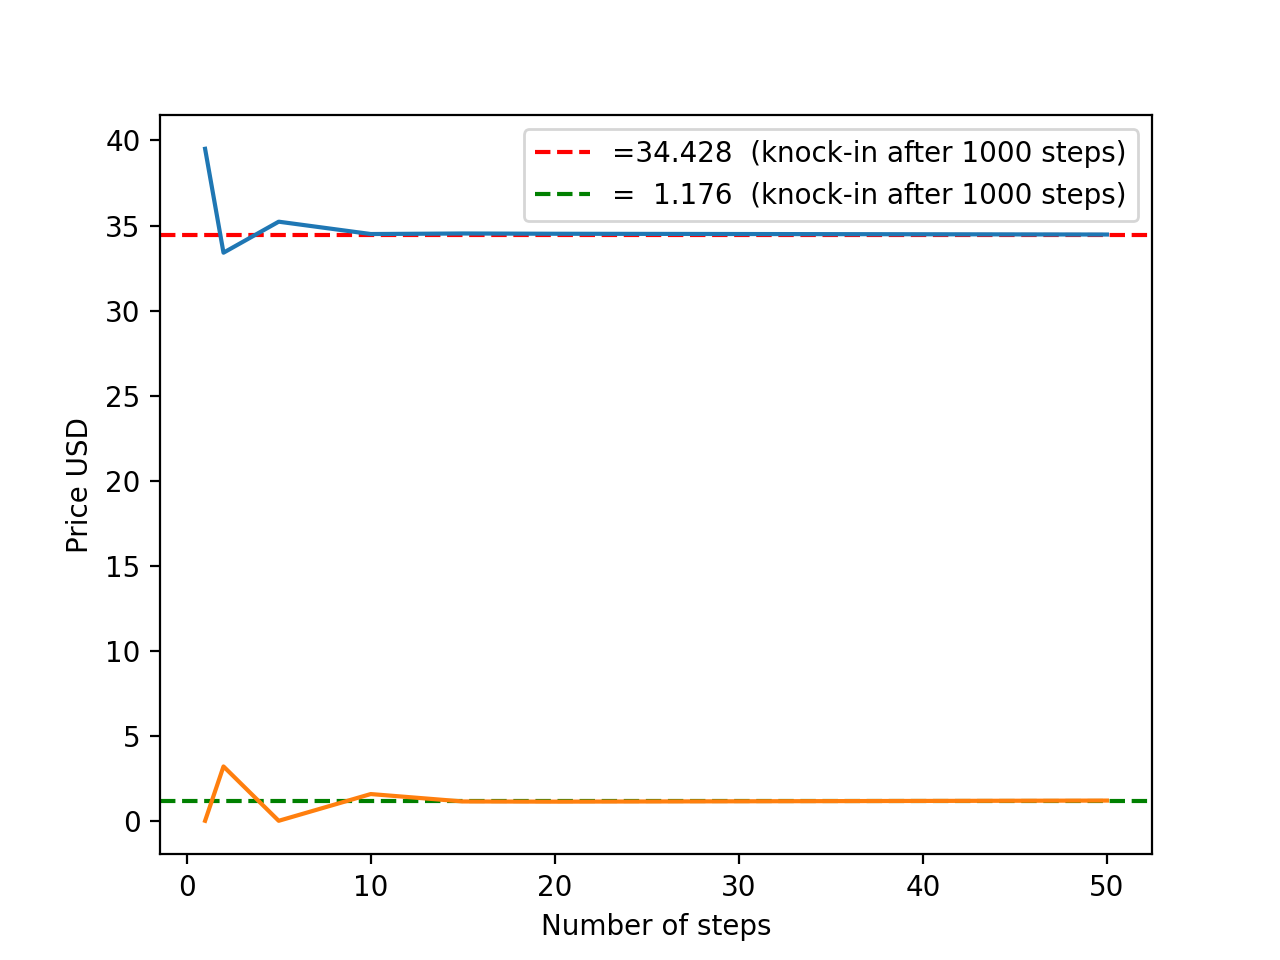
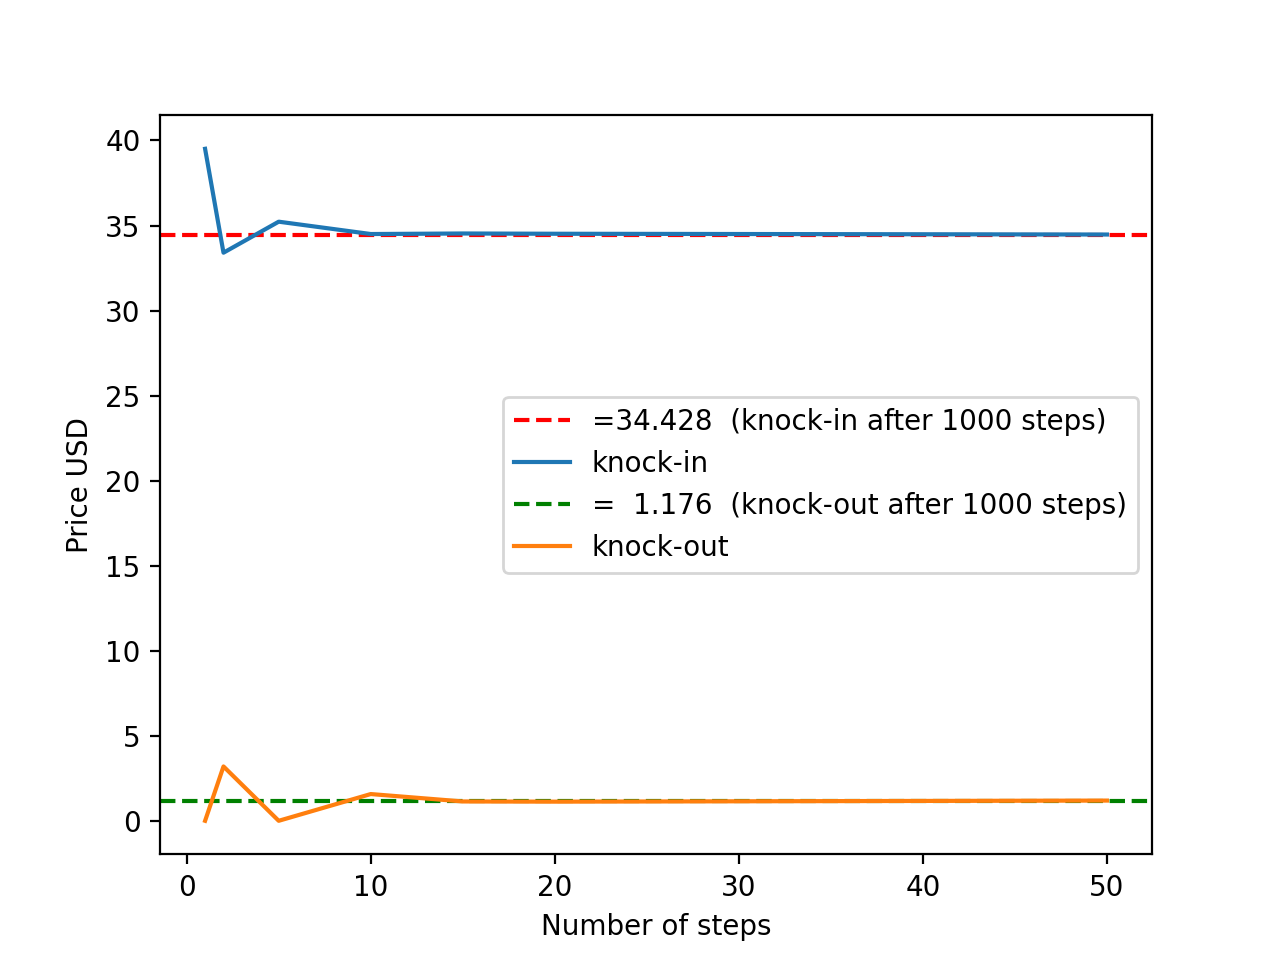
Mostly formatting changes

diff --git a/ex_3.py b/ex_3.py
@@ -14,13 +14,13 @@ from sklearn.linear_model import LinearRegression
 #3A 
 
 def probability_of_having_passed(t,S,sigma, S_t, H):
+    #Implemented as provided in the extended excercise
     if t == 0:
         return 0 
     return math.e**( (-2/(t*sigma**2))*math.log(S/H)*math.log(S_t/H) )
 
 def nCr(n,k):
     return math.factorial(n)/(math.factorial(k)*(math.factorial(n-k)))
-
 
 def european_knock_in_option(S,K,T,r,delta,sigma,h,call_or_put,H,knock_in):
     
@@ -56,6 +56,8 @@ def european_knock_in_option(S,K,T,r,delta,sigma,h,call_or_put,H,knock_in):
     #print(values)
     option_price = sum(values)*math.e**(-(r)*T)
     return option_price
+
+
 
 #3b
 
@@ -116,8 +118,12 @@ def meta_simulator(simulation_round_limit,simulation_step_size,simulation_amount
         x_axis.append(at_simulation)
     return x_axis,variance
 
+
+
 #3c
+
 def save_and_return(data,value,t,pos_y):
+    #save values in the binomial tree
     data[ (t,pos_y) ] = value
     return value
  
@@ -132,8 +138,8 @@ def american_bionomial_barrier_option(S,K,t,r,delta,sigma,h,call_or_put,pos_y,kn
     d = math.e**((r-delta)*h-sigma*h**(1/2)) 
     p = (math.e**((r-delta)*h)-d)/(u-d)
     if t == T-h and K < S and S < H: 
-           p_u = min(probability_of_having_passed(t+h,110,sigma,S*u,H),1) #print(f"Probability of having passed @upwards: {probability_of_having_passed(t+h,110,sigma,S*u,H)}")
-           p_d = min(probability_of_having_passed(t+h,110,sigma,S*d,H),1) #print(f"Probability of having passed @downwards {probability_of_having_passed(t+h,110,sigma,S*d,H)}") #This wrongly prints larger than 1
+           p_u = min(probability_of_having_passed(t+h,110,sigma,S*u,H),1) 
+           p_d = min(probability_of_having_passed(t+h,110,sigma,S*d,H),1) 
            if not knock_in:
                p_u = 1 - p_u
                p_d = 1 - p_d
@@ -157,6 +163,7 @@ def monte_carlo_simulation(S,T,delta,sigma,r,h,rounds):
     return sims
 
 def price_options(T,K,h,call_or_put):
+    #formats of inputs: 
     # stock sims = [[13,13.8,14,15,16],[12,13,15,14,10],...]
     # cash_flows = [[13,13.8,14,15,16],[12,13,15,14,10],...]
     rounds = 100000
@@ -176,7 +183,7 @@ def price_options(T,K,h,call_or_put):
         stock_sims[i] = stock_sims[i][1:]
     
 
-    #print(cash_flows[4])
+    
 
     #knock-in
     knock_in = []
@@ -192,7 +199,7 @@ def price_options(T,K,h,call_or_put):
                 if stock_sims[i][t]>=H:
                     flag = 1
                 knock_in[i][t]=flag
-    else:
+    else: #put
         for i in range(len(stock_sims)):
             knock_in.append([1]*T*extra)
             flag = 1
@@ -214,30 +221,25 @@ def price_options(T,K,h,call_or_put):
 
         for i in range(len(stock_sims)):
             #get the last values
-            #print(len(cash_flows[t+1]))
             
             #if the option is in the money
-
             if call_or_put*(stock_sims[i][t-1] - K) > 0:
 
                 if cash_flows[i][t]!=0:
 
                     regression_table_t.append( (cash_flows[i][t]*e**(-r*h) , stock_sims[i][t-1] ) )
         
-        #print(regression_table_t)
+        #create regression to estimate of continuation value
         if regression_table_t!=[]:
             c, c_x = get_regression(regression_table_t)
-        #print(c)
-        #print(c_x)
+        
         count_ex = 0
         count_co = 0
+
         for i in range(len(stock_sims)):
             continuation_value = c+c_x*stock_sims[i][t-1]
             exercise_value = max(call_or_put*(stock_sims[i][t-1] - K),0)
-            #print(f"{t}")
-            #print(continuation_value)
-            #print(exercise_value)
-            #print("---")
+           
             if exercise_value > continuation_value:
                 if exercise_value!=0 and knock_in[i][t]==1:
                     for x in range(len(stop_flag[i])):
@@ -249,17 +251,14 @@ def price_options(T,K,h,call_or_put):
             else:
                 count_co += 1
                 cash_flows[i][t-1]=0
-        #print(f"count ex: {count_ex}")
-        #print(f"count co: {count_co}")
+        
 
     #return average
     summ = 0
     for i in range(len(stock_sims)):
-        #print(cash_flows[i])
         for t in range(0,T*extra):
             if stop_flag[i][t] == 1:
                 summ += cash_flows[i][t]*e**((-r)*(t*h+h))
-    #print(stop_flag)
     
     #for E
     plot_hist_MC(stop_flag)
@@ -269,10 +268,8 @@ def price_options(T,K,h,call_or_put):
 def get_regression(regression_table):
     x = []
     y = []
-    #print(len(regression_table))
     for tup in regression_table: 
         x.append(tup[1])
-        #print(tup[0])
         y.append(tup[0])
     
     plt.figure(1)
@@ -280,21 +277,15 @@ def get_regression(regression_table):
     
     x = np.array(x).reshape((-1,1)) 
     y = np.array(y)
-    #print(x)
-    #print(y)
 
     model = LinearRegression().fit(x,y)
-    #print(model.coef_)
-    #print(model.intercept_)
-    #print(model.intercept_, model.coef_[0])
     plt.plot(x, model.intercept_+ x*model.coef_[0], "r")
-    #plt.show()
     return model.intercept_, model.coef_[0]
 
 def plot_hist_MC(table):
+    #Used to plot histograms
     x = []
     for lst in table:
-        #print(lst)
         for t in range(len(lst)):
             if (lst[t]==1):
                 x.append(t*h+h)
@@ -348,9 +339,9 @@ if __name__ == "__main__":
                 steps.append(int(T/h))
             print(knock_in_data)
             plt.axhline(european_knock_in_option(S,K,T,r,delta,sigma,0.005,call_or_put,H,1),color="red",ls="--",label=f"={round(european_knock_in_option(S,K,T,r,delta,sigma,0.005,call_or_put,H,1),3)}  (knock-in after 1000 steps)")
-            plt.plot(steps[:-5],knock_in_data[:-5])
-            plt.axhline(european_knock_in_option(S,K,T,r,delta,sigma,0.005,call_or_put,H,0),color="green",ls="--",label=f"=  {round(european_knock_in_option(S,K,T,r,delta,sigma,0.005,call_or_put,H,0),3)}  (knock-in after 1000 steps)")
-            plt.plot(steps[:-5],knock_out_data[:-5])
+            plt.plot(steps[:-5],knock_in_data[:-5],label="knock-in")
+            plt.axhline(european_knock_in_option(S,K,T,r,delta,sigma,0.005,call_or_put,H,0),color="green",ls="--",label=f"=  {round(european_knock_in_option(S,K,T,r,delta,sigma,0.005,call_or_put,H,0),3)}  (knock-out after 1000 steps)")
+            plt.plot(steps[:-5],knock_out_data[:-5],label="knock-out")
             plt.xlabel("Number of steps")
             plt.ylabel("Price USD")
             plt.legend()

diff --git a/ex_2.py b/ex_2.py
@@ -174,7 +174,6 @@ def starting_point(r, delta, sigma, K, call_or_put):
         H_p = K *(h_2/(h_2-1))
         return H_p
 
-
 def exercise_boundary(full_tree, call_or_put,h):
     stock_price = []
     time = []
@@ -213,6 +212,7 @@ def exercise_boundary(full_tree, call_or_put,h):
     return time, stock_price
 
 
+
 #2e
 
 def make_granular_function(excersice_boundaries,h,times):
@@ -248,7 +248,6 @@ def make_granular_function(excersice_boundaries,h,times):
 
     return granular_exercise_lst
 
-
 def ex_times(stock_sims, time, ex_bounderies):
     gran_ex_list = make_granular_function(ex_bounderies,h, time)
     ex_times = []
@@ -278,6 +277,7 @@ def ex_times(stock_sims, time, ex_bounderies):
     plt.figure(3)
     plt.hist(ex_times, bins = [0,0.5,1,1.5,2,2.5,3,3.5,4,4.5,5]) #[0,0.25,0.75,1.25,1.75,2.25,2.75,3.25,3.75,4.25,4.75,5.25]
     plt.show()
+
 
 
 #F

diff --git a/ex_1.py b/ex_1.py
@@ -127,7 +127,7 @@ if __name__ == "__main__":
     call_or_put = -1 # 1 = call, -1 = put
     h = 1
     
-    #––––Run toggles––––
+    #––––Run toggles–––– SET what tasks you want to print to 1
     one_a = 0
     one_b = 1
     one_c = 0
